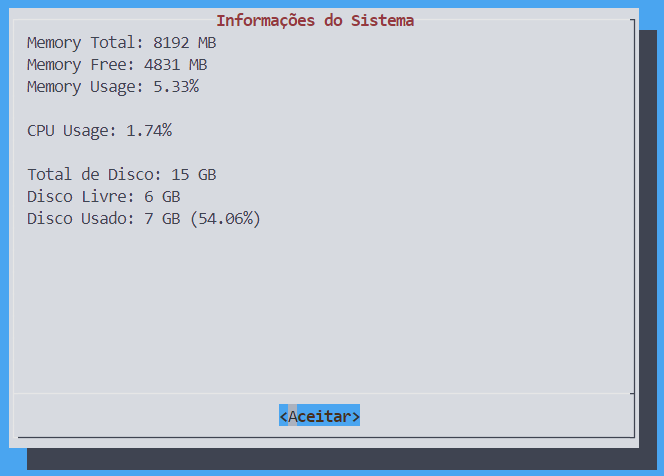
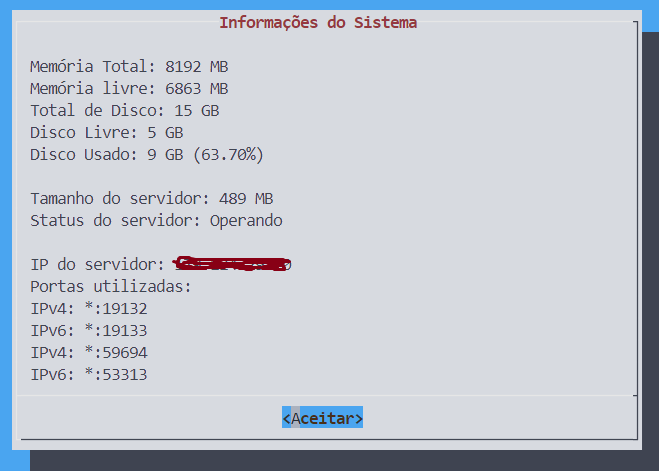
feat(IP | Port(get-system)) The server's ip capture and the ports used have been entered

Changed region(s): [[0.0, 0.0, 1.0, 1.0], [0.0607, 0.7431, 0.2428, 0.8025]]

diff --git a/tools/bedrock/system/system.go b/tools/bedrock/system/system.go
@@ -80,7 +80,7 @@ func main() {
 		return
 	}
 
-	fmt.Printf("\nUtilização da CPU: %.2f%%\n\n", cpuPercent[0])
+	fmt.Printf("\nUtilização da CPU: %.2f%%\n", cpuPercent[0])
 	fmt.Printf("Utilização da memória: %.2f%%\n\n", memory.UsedPercent)
 	fmt.Printf("Memória Total: %v MB\n", memory.Total/1024/1024)
 	fmt.Printf("Memória livre: %v MB\n", memory.Free/1024/1024)
@@ -89,9 +89,9 @@ func main() {
 	fmt.Printf("Disco Usado: %v GB (%.2f%%)\n\n", usedGB, d.UsedPercent)
 
 	if serverDirSize < 1024*1024*1024 {
-		fmt.Printf("Tamanho total da pasta do servidor: %v MB\n", serverDirSize/1024/1024)
+		fmt.Printf("Tamanho do servidor: %v MB\n", serverDirSize/1024/1024)
 	} else {
-		fmt.Printf("Tamanho total da pasta do servidor: %.2f GB\n", float64(serverDirSize)/(1024*1024*1024))
+		fmt.Printf("Tamanho do servidor: %.2f GB\n", float64(serverDirSize)/(1024*1024*1024))
 	}
 
 	cmd := exec.Command("sh", "-c", "top -b -n 1 | grep -q \"bedrock\" && echo \"Operando\" || echo \"Inativo\"")
@@ -102,4 +102,20 @@ func main() {
 	}
 
 	fmt.Printf("Status do servidor: %s", output)
+
+	cmd = exec.Command("sh", "-c", "ip route get 8.8.8.8 | awk '{print $7}'")
+	ipOutput, err := cmd.Output()
+	if err != nil {
+		fmt.Printf("Erro ao obter o IP do servidor: %v\n", err)
+		return
+	}
+	fmt.Printf("\nIP do servidor: %s\n", strings.TrimSpace(string(ipOutput)))
+
+	cmd = exec.Command("sh", "-c", `output=$(lsof -i -P -n | grep bedrock | awk '/IPv4/ {print "IPv4: " $9} /IPv6/ {print "IPv6: " $9}'); if [ -z "$output" ]; then echo "Server inativo"; else echo "$output"; fi`)
+	portsOutput, err := cmd.Output()
+	if err != nil {
+		fmt.Printf("Erro ao obter as portas utilizadas: %v\n", err)
+		return
+	}
+	fmt.Printf("Portas utilizadas:\n%s", string(portsOutput))
 }
